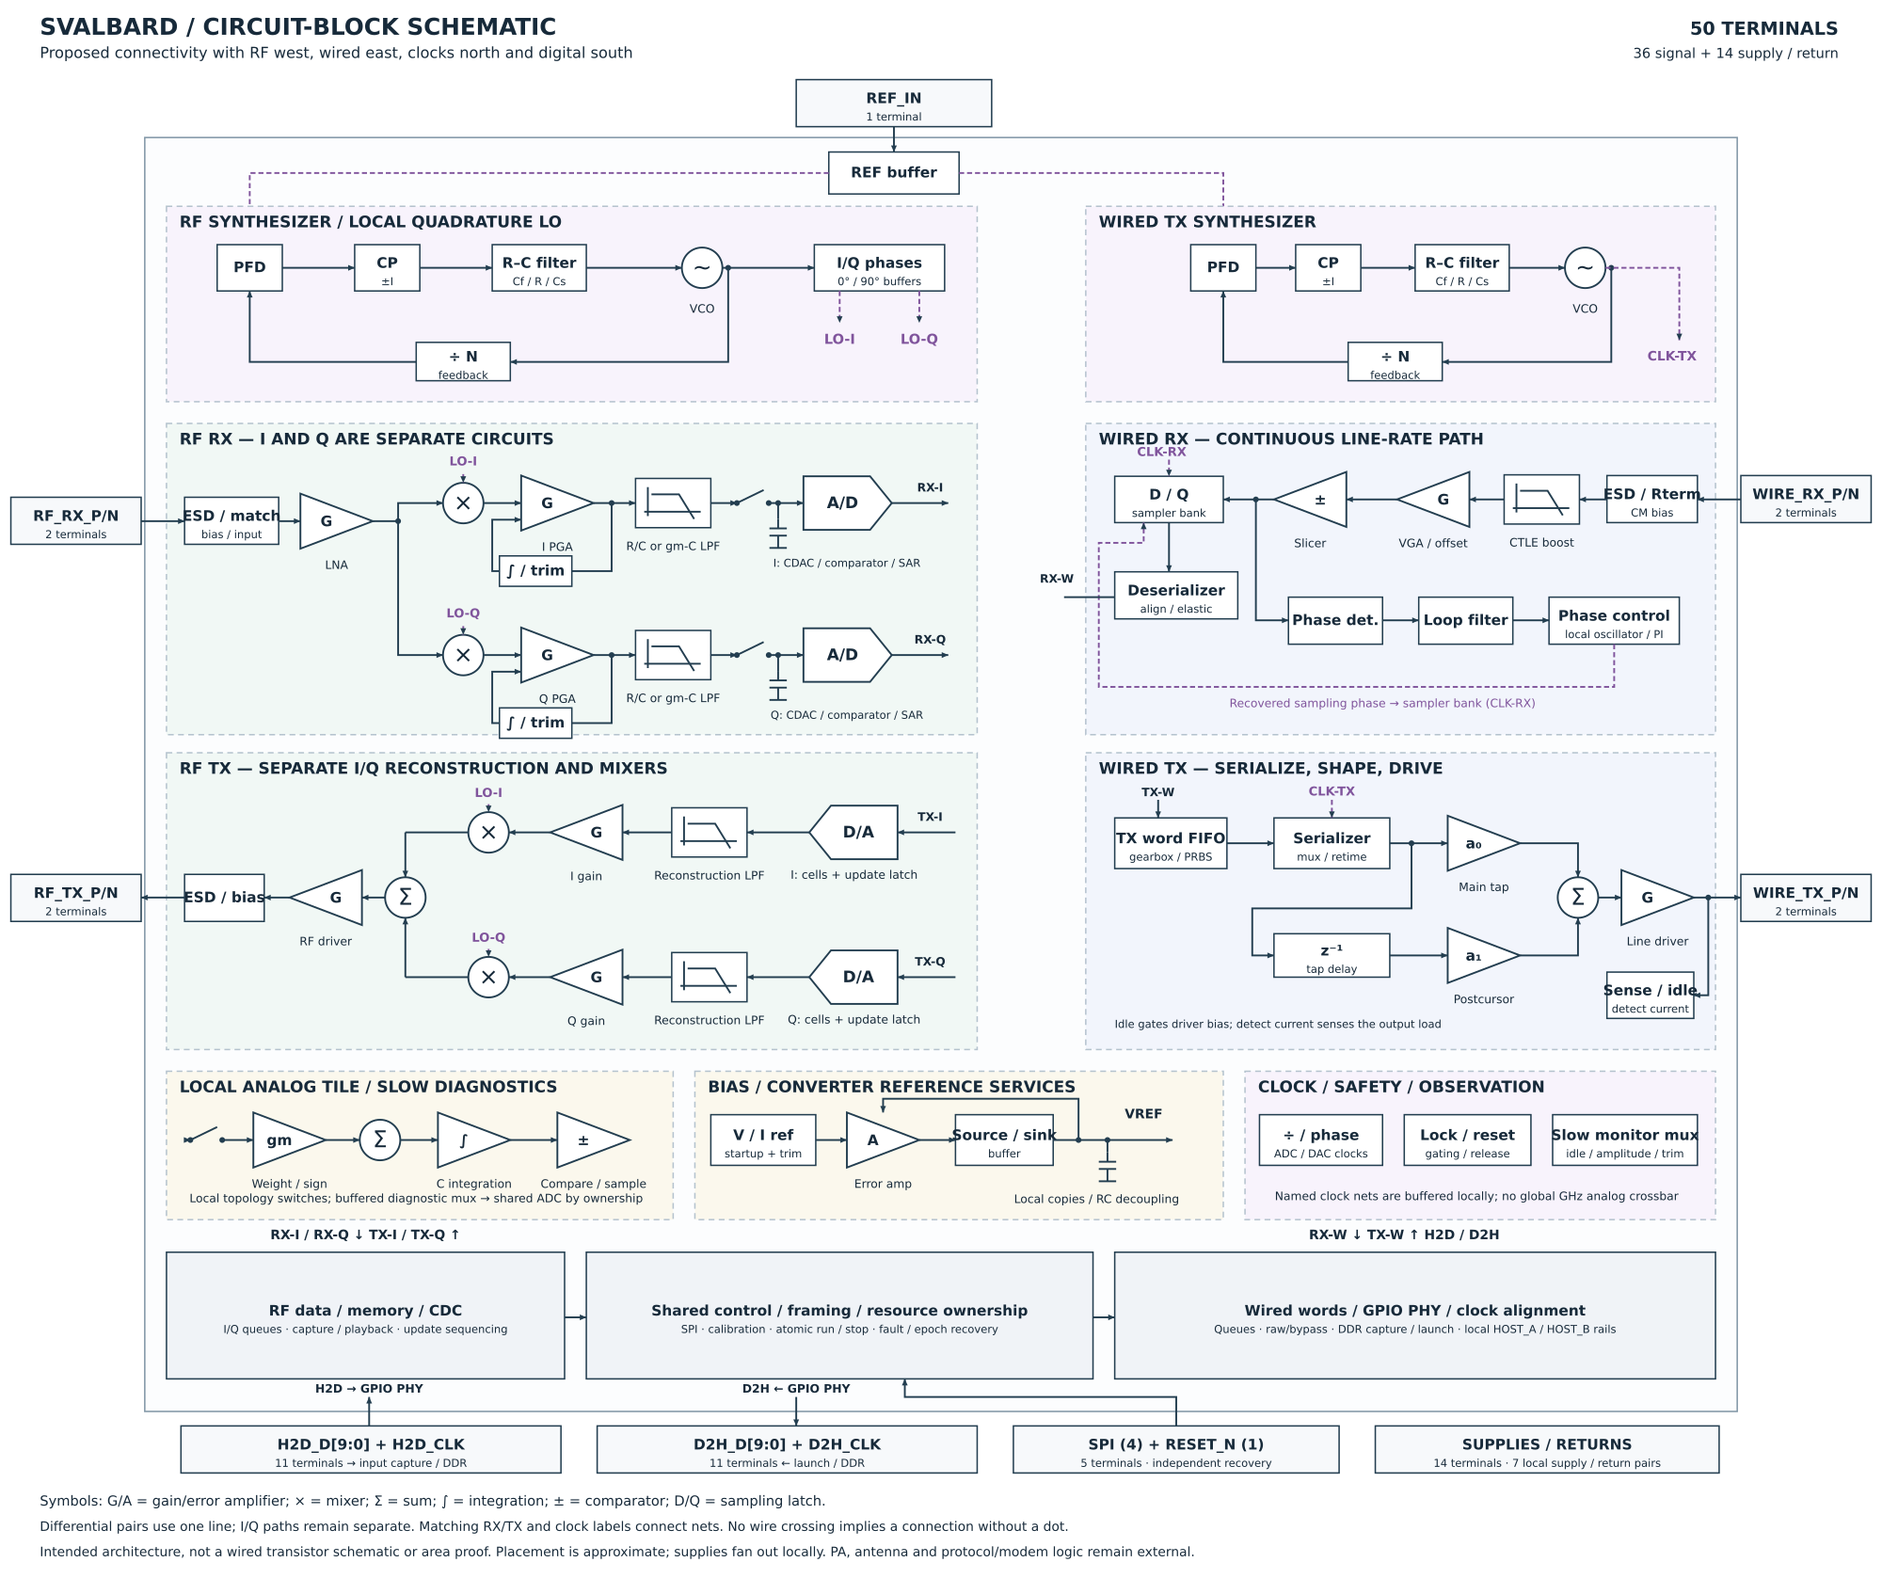
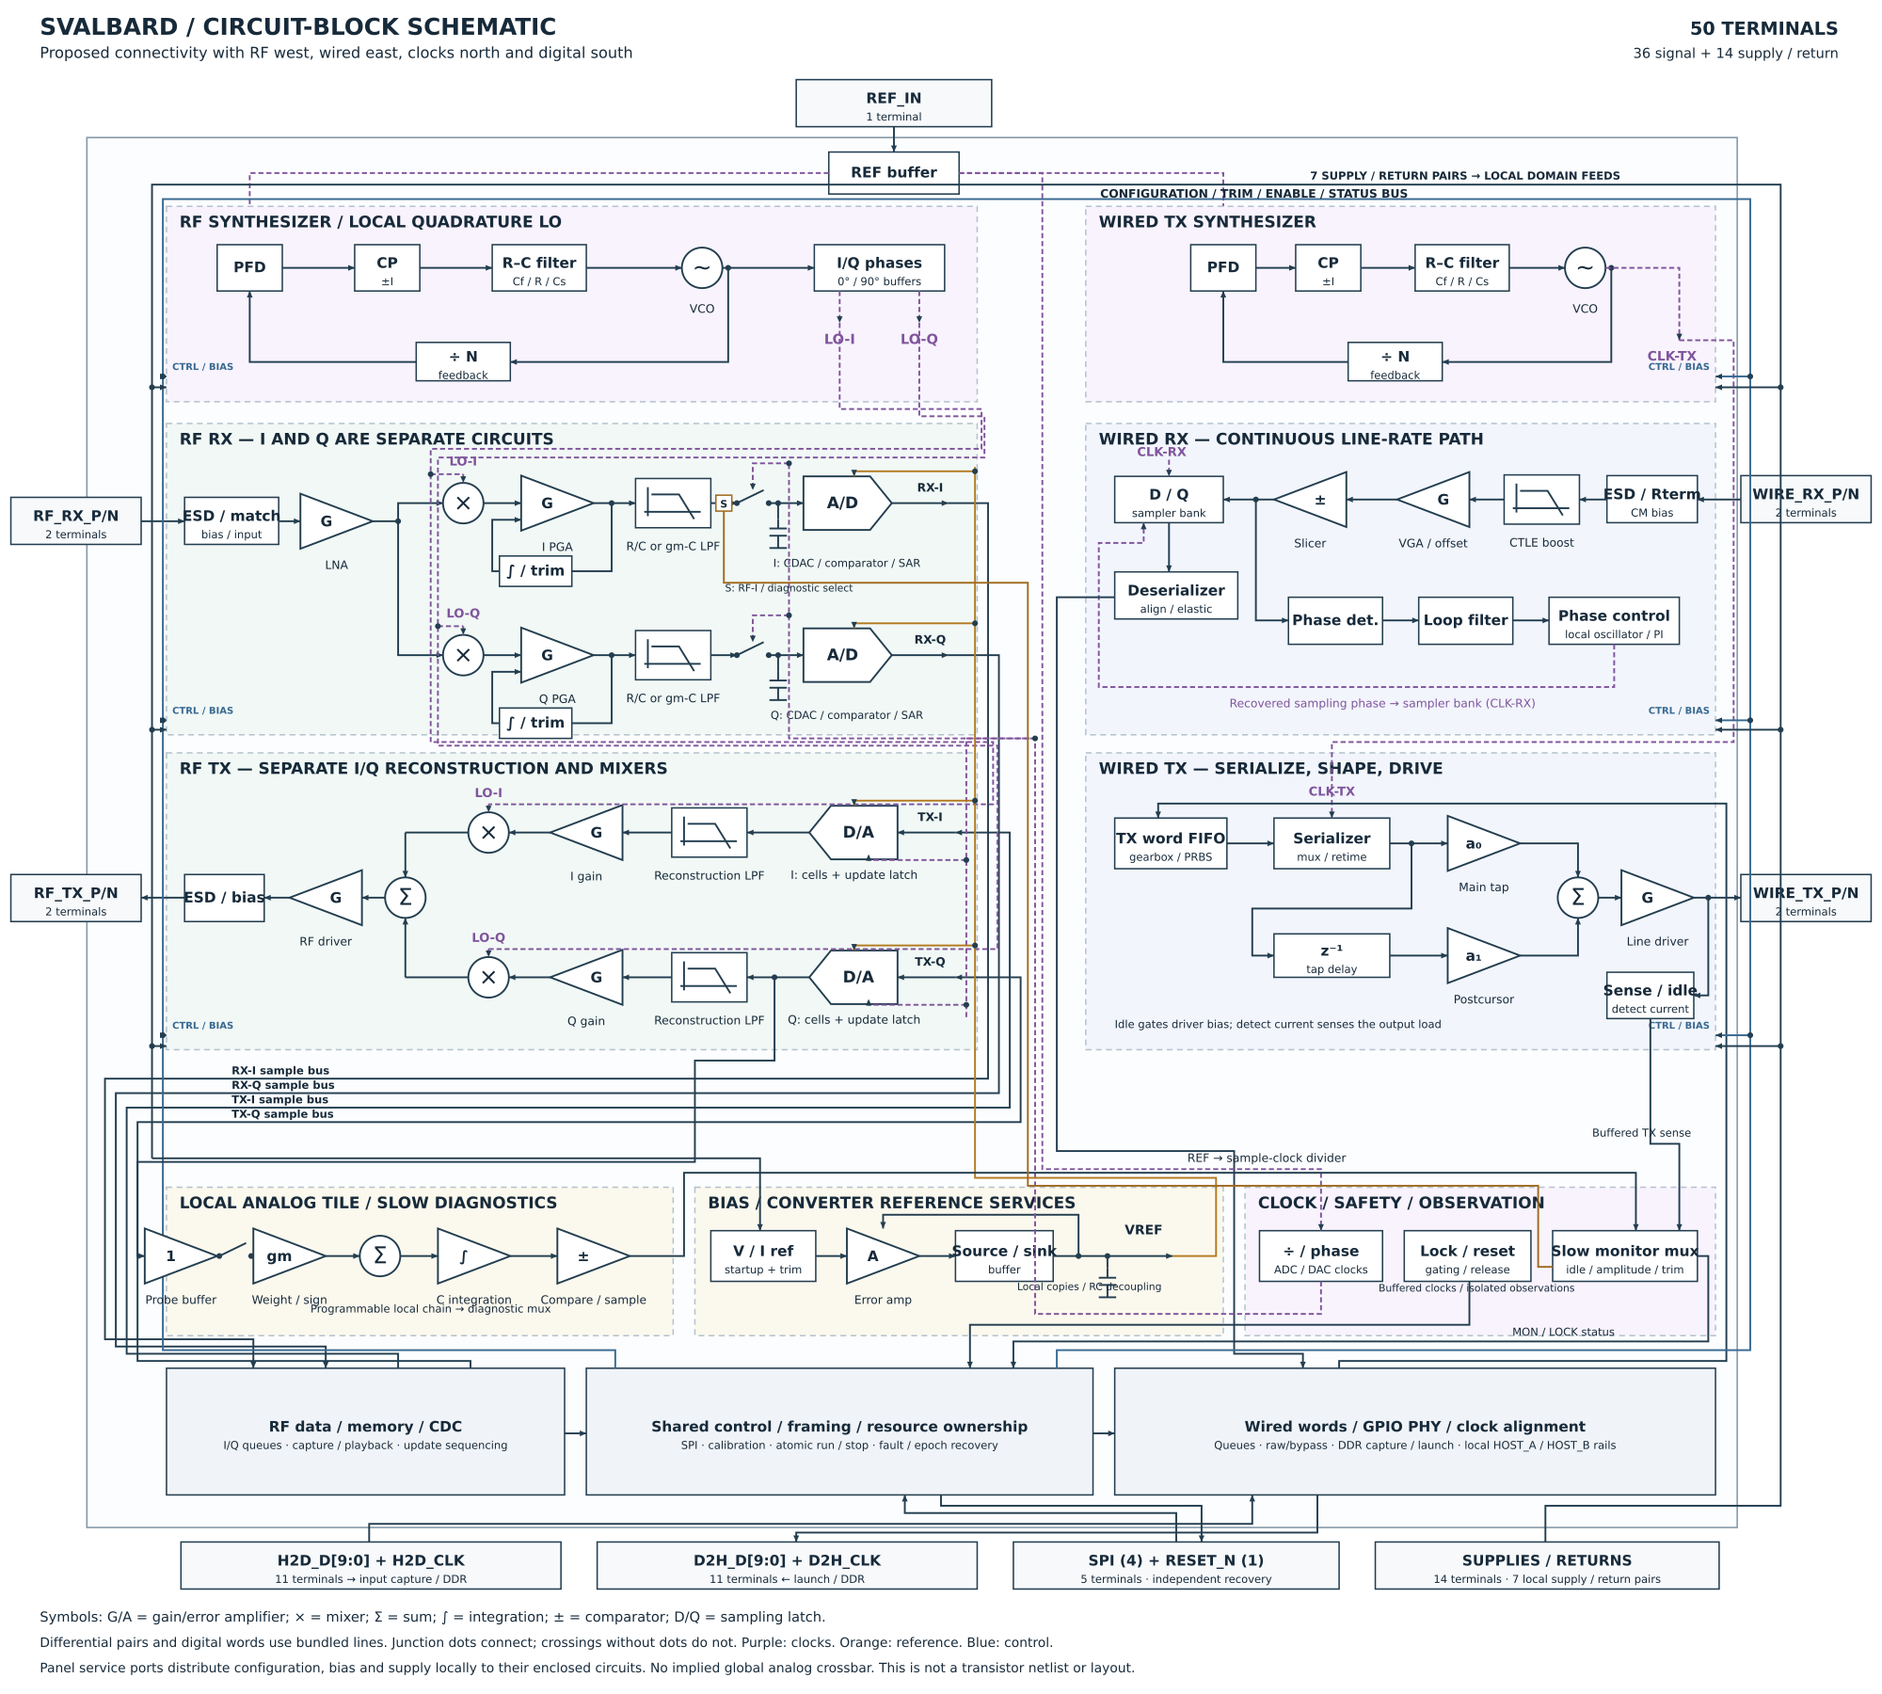
Draw transceiver signal buses, clock distribution and shared service wiring

diff --git a/projects/programmable_transceiver_platform/docs/diagrams/generate_block_diagram.py b/projects/programmable_transceiver_platform/docs/diagrams/generate_block_diagram.py
@@ -2,6 +2,7 @@
 from pathlib import Path
 from html import escape
 A=[]
+WIRE_COLOR=None
 def put(s): A.append(s)
 def label(x,y,s,n=19,bold=False,anchor='middle',color='#172a3a'):
     put(f'<text x="{x}" y="{y}" font-size="{n}" font-weight="{600 if bold else 400}" text-anchor="{anchor}" fill="{color}">{escape(s)}</text>')
@@ -9,7 +10,7 @@ def rect(x,y,w,h,fill='white',stroke='#233e50',dash=False):
     put(f'<rect x="{x}" y="{y}" width="{w}" height="{h}" fill="{fill}" stroke="{stroke}" stroke-width="2"'+(' stroke-dasharray="8 6"' if dash else '')+'/>')
 def wire(points,arrow=True,clock=False):
     d='M '+' L '.join(f'{x},{y}' for x,y in points)
-    put(f'<path d="{d}" fill="none" stroke="{"#80549c" if clock else "#233e50"}" stroke-width="2.5"'+(' stroke-dasharray="7 4"' if clock else '')+(' marker-end="url(#arrow)"' if arrow else '')+'/>')
+    put(f'<path d="{d}" fill="none" stroke="{WIRE_COLOR or ("#80549c" if clock else "#233e50")}" stroke-width="2.5"'+(' stroke-dasharray="7 4"' if clock else '')+(' marker-end="url(#arrow)"' if arrow else '')+'/>')
 def dot(x,y):put(f'<circle cx="{x}" cy="{y}" r="4" fill="#233e50"/>')
 def block(x,y,w,h,title,sub='',fill='white'):
     rect(x,y,w,h,fill);label(x+w/2,y+h/2+(0 if sub else 6),title,20,True)
@@ -44,11 +45,11 @@ def pin(x,y,w,name,count):
     block(x,y,w,65,name,count,'#f7f9fb')
 def panel(x,y,w,h,title,fill):
     rect(x,y,w,h,fill,'#b5c3ce',True);label(x+18,y+29,title,22,True,'start')
-put('''<svg xmlns="http://www.w3.org/2000/svg" width="2600" height="2180" viewBox="0 0 2600 2180" role="img" aria-labelledby="title desc"><title id="title">Svalbard circuit-block schematic and approximate placement</title><desc id="desc">Explicit RF I and Q mixer, gain, filter and converter paths; PLL feedback loops; wired equalizer, sampler, CDR and serializer; programmable analog tiles; references and host control. All external terminals are at the perimeter. Intended circuits, not a completed transistor schematic.</desc><defs><marker id="arrow" markerWidth="10" markerHeight="10" refX="9" refY="4" orient="auto" markerUnits="userSpaceOnUse"><path d="M0 0 L9 4 L0 8" fill="#233e50"/></marker></defs><rect width="2600" height="2180" fill="white"/><g font-family="DejaVu Sans,sans-serif">''')
+put('''<svg xmlns="http://www.w3.org/2000/svg" width="2600" height="2340" viewBox="0 0 2600 2340" role="img" aria-labelledby="title desc"><title id="title">Svalbard circuit-block schematic and approximate placement</title><desc id="desc">Explicit RF I and Q mixer, gain, filter and converter paths; PLL feedback loops; wired equalizer, sampler, CDR and serializer; programmable analog tiles; references and host control. All external terminals are at the perimeter. Intended circuits, not a completed transistor schematic.</desc><defs><marker id="arrow" markerWidth="10" markerHeight="10" refX="9" refY="4" orient="auto" markerUnits="userSpaceOnUse"><path d="M0 0 L9 4 L0 8" fill="#233e50"/></marker></defs><rect width="2600" height="2340" fill="white"/><g font-family="DejaVu Sans,sans-serif">''')
 label(55,48,'SVALBARD / CIRCUIT-BLOCK SCHEMATIC',32,True,'start')
 label(55,80,'Proposed connectivity with RF west, wired east, clocks north and digital south',21,anchor='start')
 label(2540,48,'50 TERMINALS',25,True,'end');label(2540,80,'36 signal + 14 supply / return',19,anchor='end')
-rect(200,190,2200,1760,'#fcfdfe','#8196a6')
+rect(120,190,2280,1920,'#fcfdfe','#8196a6')
 # external ref and split
 pin(1100,110,270,'REF_IN','1 terminal')
 block(1145,210,180,58,'REF buffer')
@@ -148,12 +149,14 @@ amp(2290,1240,'G','Line driver');wire([(2208,1240),(2240,1240)]);wire([(2340,124
 block(2220,1343,120,64,'Sense / idle','detect current')
 wire([(2360,1240),(2360,1375),(2340,1375)]);dot(2360,1240)
 label(1540,1420,'Idle gates driver bias; detect current senses the output load',15,anchor='start')
+# Extra routing band separates high-speed circuits from shared services.
+put('<g transform="translate(0,160)">')
 # lower analog services
 panel(230,1480,700,205,'LOCAL ANALOG TILE / SLOW DIAGNOSTICS','#fbf8ed')
-switch(285,1575);wire([(255,1575),(263,1575)]);amp(400,1575,'gm','Weight / sign');wire([(307,1575),(350,1575)])
+switch(325,1575);wire([(347,1575),(350,1575)],False);amp(400,1575,'gm','Weight / sign');
 circ(525,1575,'Σ');wire([(450,1575),(497,1575)]);amp(655,1575,'∫','C integration');wire([(553,1575),(605,1575)])
 amp(820,1575,'±','Compare / sample');wire([(705,1575),(770,1575)])
-label(575,1661,'Local topology switches; buffered diagnostic mux → shared ADC by ownership',16)
+label(595,1653,'Programmable local chain → diagnostic mux',15)
 panel(960,1480,730,205,'BIAS / CONVERTER REFERENCE SERVICES','#fbf8ed')
 block(982,1540,145,70,'V / I ref','startup + trim')
 amp(1220,1575,'A','Error amp');wire([(1127,1575),(1170,1575)])
@@ -161,32 +164,105 @@ block(1320,1540,135,70,'Source / sink','buffer')
 wire([(1270,1575),(1320,1575)]);wire([(1455,1575),(1620,1575)])
 cap(1530,1610);dot(1530,1575);wire([(1530,1575),(1530,1592)],False)
 wire([(1490,1575),(1490,1518),(1220,1518),(1220,1537)]);dot(1490,1575)
-label(1580,1545,'VREF',18,True);label(1515,1662,'Local copies / RC decoupling',16)
+label(1580,1545,'VREF',18,True);label(1505,1622,'Local copies / RC decoupling',14)
 panel(1720,1480,650,205,'CLOCK / SAFETY / OBSERVATION','#f8f3fc')
 block(1740,1540,170,70,'÷ / phase','ADC / DAC clocks')
 block(1940,1540,175,70,'Lock / reset','gating / release')
 block(2145,1540,200,70,'Slow monitor mux','idle / amplitude / trim')
-label(2040,1658,'Named clock nets are buffered locally; no global GHz analog crossbar',16)
+label(2040,1624,'Buffered clocks / isolated observations',14)
 # digital along bottom
 block(230,1730,550,175,'RF data / memory / CDC','I/Q queues · capture / playback · update sequencing','#f0f3f7')
 block(810,1730,700,175,'Shared control / framing / resource ownership','SPI · calibration · atomic run / stop · fault / epoch recovery','#f0f3f7')
 block(1540,1730,830,175,'Wired words / GPIO PHY / clock alignment','Queues · raw/bypass · DDR capture / launch · local HOST_A / HOST_B rails','#f0f3f7')
-# Matched net labels keep digital buses distinct and off sensitive analog nodes.
-label(505,1712,'RX-I / RX-Q ↓    TX-I / TX-Q ↑',18,True)
-wire([(1540,825),(1470,825)],False);label(1460,805,'RX-W',16,True)
-label(1600,1100,'TX-W',16,True);wire([(1600,1105),(1600,1130)])
-label(1940,1712,'RX-W ↓    TX-W ↑     H2D / D2H',18,True)
+# Local word ports connect to the detailed buses drawn below.
+
+
+
+
 wire([(780,1820),(810,1820)]);wire([(1510,1820),(1540,1820)])
 # external pins bottom for 22 host + 5 ctl + 14power =41, plus8analog+1ref=50
 pin(250,1970,525,'H2D_D[9:0] + H2D_CLK','11 terminals → input capture / DDR')
 pin(825,1970,525,'D2H_D[9:0] + D2H_CLK','11 terminals ← launch / DDR')
 pin(1400,1970,450,'SPI (4) + RESET_N (1)','5 terminals · independent recovery')
 pin(1900,1970,475,'SUPPLIES / RETURNS','14 terminals · 7 local supply / return pairs')
-wire([(510,1970),(510,1930)]);label(510,1924,'H2D → GPIO PHY',16,True)
-wire([(1100,1930),(1100,1970)]);label(1100,1924,'D2H ← GPIO PHY',16,True)
+wire([(510,1970),(510,1945),(1730,1945),(1730,1905)])
+wire([(1820,1905),(1820,1957),(1100,1957),(1100,1970)])
 wire([(1625,1970),(1625,1930),(1250,1930),(1250,1905)])
+wire([(1300,1905),(1300,1920),(1660,1920),(1660,1970)])
 label(55,2080,'Symbols: G/A = gain/error amplifier; × = mixer; Σ = sum; ∫ = integration; ± = comparator; D/Q = sampling latch.',19,anchor='start')
-label(55,2115,'Differential pairs use one line; I/Q paths remain separate. Matching RX/TX and clock labels connect nets. No wire crossing implies a connection without a dot.',18,anchor='start')
-label(55,2150,'Intended architecture, not a wired transistor schematic or area proof. Placement is approximate; supplies fan out locally. PA, antenna and protocol/modem logic remain external.',18,anchor='start')
+label(55,2115,'Differential pairs and digital words use bundled lines. Junction dots connect; crossings without dots do not. Purple: clocks. Orange: reference. Blue: control.',18,anchor='start')
+label(55,2150,'Panel service ports distribute configuration, bias and supply locally to their enclosed circuits. No implied global analog crossbar. This is not a transistor netlist or layout.',18,anchor='start')
+put('</g>')
+# Explicit buses, each with its own track; no I/Q shorts.
+for y,track,rail,left,foot,port,rx,name in [
+    (695,1365,1490,145,1850,350,True,'RX-I'),
+    (905,1380,1510,160,1860,450,True,'RX-Q'),
+    (1150,1395,1530,175,1870,550,False,'TX-I'),
+    (1350,1410,1550,190,1880,650,False,'TX-Q')]:
+    points=[(1310 if rx else 1320,y),(track,y),(track,rail),(left,rail),(left,foot),(port,foot),(port,1890)]
+    wire(points if rx else list(reversed(points)))
+    label(320,rail-6,name+' sample bus',15,True,anchor='start')
+wire([(1540,825),(1460,825),(1460,1590),(1705,1590),(1705,1870),(1800,1870),(1800,1890)])
+wire([(1850,1890),(1850,1880),(2385,1880),(2385,1110),(1600,1110),(1600,1130)])
+# Shared LO distribution, with distinct I/Q branches to both RF mixers.
+for source,trunk,rx_y,tx_y in [(1160,595,655,1111),(1270,605,865,1311)]:
+    outer=1356 if source==1160 else 1360; shelf=620 if source==1160 else 632
+    wire([(source,446),(source,565 if source==1160 else 575),(outer,565 if source==1160 else 575),(outer,shelf),(trunk,shelf),(trunk,1025 if source==1160 else 1030),(1372 if source==1160 else 1378,1025 if source==1160 else 1030),(1372 if source==1160 else 1378,tx_y),(675,tx_y)],False,True)
+    wire([(trunk,rx_y),(640,rx_y)],False,True);dot(trunk,rx_y)
+# TX serializer clock from its PLL; distribute outside the wired island.
+wire([(2320,470),(2395,470),(2395,1025),(1840,1025),(1840,1105)],False,True)
+# Buffered master reference to sample-clock generation (service strip).
+wire([(1325,239),(1440,239),(1440,1615),(1825,1615),(1825,1700)],True,True)
+label(1750,1605,'REF → sample-clock divider',16)
+# Sample clocks split to ADC sampling switches and DAC update latches.
+wire([(1825,1770),(1825,1815),(1430,1815),(1430,1020),(1090,1020),(1090,640)],False,True)
+for y in (695,905):
+    wire([(1090,y-55),(1040,y-55),(1040,y-18)],True,True);dot(1090,y-55)
+wire([(1430,1020),(1335,1020),(1335,1405)],False,True)
+for y in (1150,1350):
+    wire([(1335,y+38),(1200,y+38),(1200,y+30)],True,True);dot(1335,y+38)
+dot(1430,1020)
+# VREF fanout to separate ADC and DAC reference terminals.
+WIRE_COLOR='#b47a20'
+wire([(1620,1735),(1680,1735),(1680,1627),(1347,1627),(1347,645)],False)
+for y in (695,905,1150,1350):
+    wire([(1347,y-44),(1180,y-44),(1180,y-37)]);dot(1347,y-44)
+WIRE_COLOR=None
+# Each island has an explicit service port. A bundled configuration bus avoids
+# pretending that all trim bits and supply nets are one electrical conductor.
+WIRE_COLOR='#386991'
+wire([(1460,1890),(1460,1865),(2418,1865),(2418,275),(225,275),(225,1865),(850,1865),(850,1890)],False)
+for x,y,edge in [(230,520,225),(230,995,225),(230,1430,225),(2370,520,2418),(2370,995,2418),(2370,1430,2418)]:
+    wire([(edge,y),(x,y)]);dot(edge,y)
+    label(x+8 if edge==225 else x-8,y-9,'CTRL / BIAS',13,True,'start' if edge==225 else 'end',color='#386991')
+label(1520,273,'CONFIGURATION / TRIM / ENABLE / STATUS BUS',16,True,anchor='start')
+WIRE_COLOR=None
+# Supply terminal bundle feeds a local-domain distribution bar, never the data bus.
+wire([(2135,2130),(2135,2080),(2460,2080),(2460,255),(210,255),(210,1600)],False)
+label(1810,248,'7 SUPPLY / RETURN PAIRS → LOCAL DOMAIN FEEDS',15,True,anchor='start')
+for y in (535,1008,1445):
+    wire([(210,y),(230,y)]);dot(210,y)
+    wire([(2460,y),(2370,y)]);dot(2460,y)
+wire([(210,1600),(1050,1600),(1050,1700)])
+# Diagnostic source selection is analog; status output is a separate digital port.
+wire([(2280,1407),(2280,1580),(2320,1580),(2320,1700)])
+label(2268,1570,'Buffered TX sense',15)
+# Local programmable tile receives a selected DAC observation through a buffer.
+wire([(1070,1350),(1070,1465),(960,1465),(960,1605),(250,1605),(190,1605),(190,1735),(200,1735)]);dot(1070,1350)
+amp(250,1735,'1','Probe buffer')
+wire([(300,1735),(303,1735)],False)
+# Tile comparator output to slow monitor mux; its decision also has a status path.
+wire([(870,1735),(945,1735),(945,1620),(2260,1620),(2260,1700)])
+wire([(2345,1735),(2360,1735),(2360,1853),(1400,1853),(1400,1890)])
+wire([(2030,1770),(2030,1830),(1340,1830),(1340,1890)])
+label(2160,1845,'MON / LOCK status',15)
+# Analog diagnostic output is routed to an explicit source-selection switch
+# ahead of the I-channel sample/hold; selection excludes simultaneous RF-I use.
+WIRE_COLOR='#a06b20'
+wire([(2145,1750),(2125,1750),(2125,1638),(1420,1638),(1420,805),(1000,805),(1000,715)],False)
+wire([(1000,715),(1000,695)],False)
+rect(989,684,22,22,'white','#a06b20');label(1000,701,'S',14,True)
+label(1090,817,'S: RF-I / diagnostic select',14)
+WIRE_COLOR=None
 put('</g></svg>')
 Path(__file__).with_name('transceiver-block-diagram.svg').write_text('\n'.join(A)+'\n')

diff --git a/projects/programmable_transceiver_platform/docs/diagrams/README.md b/projects/programmable_transceiver_platform/docs/diagrams/README.md
@@ -6,7 +6,7 @@
 
 The diagram uses explicit gain stages, I/Q mixers, summing nodes, integrators, sample switches/capacitors, comparators, filters and converter symbols. PLL feedback and wired CDR paths are drawn explicitly. Analog I and Q channels and their digital buses remain separate.
 
-It retains approximate physical neighborhoods: RF west, wired east, synthesizers north and digital transport south. All 50 terminals are grouped at the perimeter. This is an intended circuit-block schematic, not a transistor netlist, scaled floorplan or proof of implemented area. Differential pairs are represented by one line; matching signal/clock labels connect nets. Digital services remain functional blocks. Shared bias and control fanout is omitted for readability.
+It retains approximate physical neighborhoods: RF west, wired east, synthesizers north and digital transport south. All 50 terminals are grouped at the perimeter. This is an intended circuit-block schematic, not a transistor netlist, scaled floorplan or proof of implemented area. Differential pairs are represented by one line; signal, clock, reference, diagnostic and host connections are drawn. Digital services remain functional blocks. Panel service ports represent bundled configuration/bias and domain supply distribution to enclosed circuits. The bundles are not single electrical nodes.
 
 The visual abstraction follows the user's [signal-flow diagram reference](https://www.inf.u-szeged.hu/~gingl/achievements/SRDW/block.PNG), with original transceiver-specific content. Local tile configurations are representative supported intentions, not a claim of a universal analog crossbar. Filters, converter internals and local regulation still require circuit selection and qualification.
 
@@ -17,4 +17,4 @@ python3 projects/programmable_transceiver_platform/docs/diagrams/generate_block_
 rsvg-convert -w 2000 projects/programmable_transceiver_platform/docs/diagrams/transceiver-block-diagram.svg -o projects/programmable_transceiver_platform/docs/diagrams/transceiver-block-diagram.png
 ```
 
-The rendered image was visually inspected for label fit, distinct I/Q nets, CDR feedback and separation of digital routing from reference circuitry.
+The rendered image was visually inspected for distinct I/Q wiring, CDR/PLL feedback, converter-reference and sampling connections, host return direction, service-bus junctions and readable routes. Junction dots denote connections; crossings without dots are independent. The selected diagnostic route is a proposed bounded topology, not implemented analog switching or a global crossbar.
